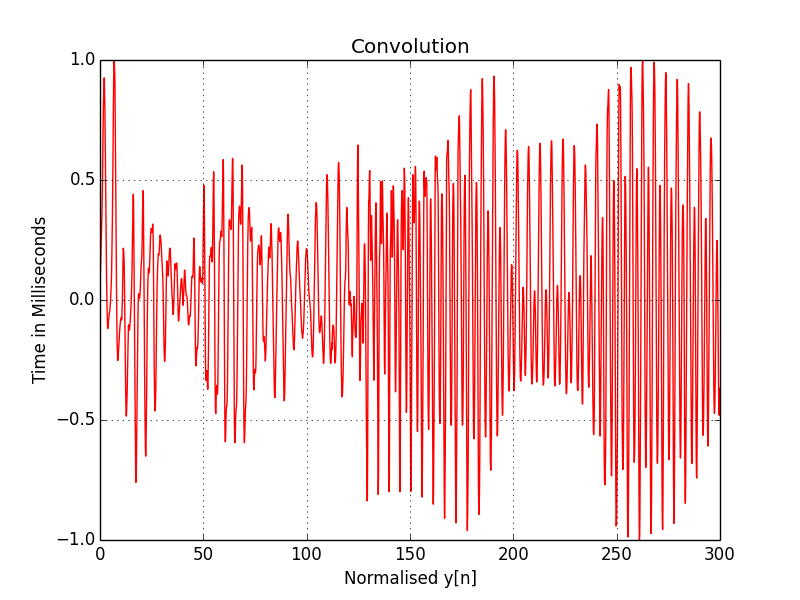
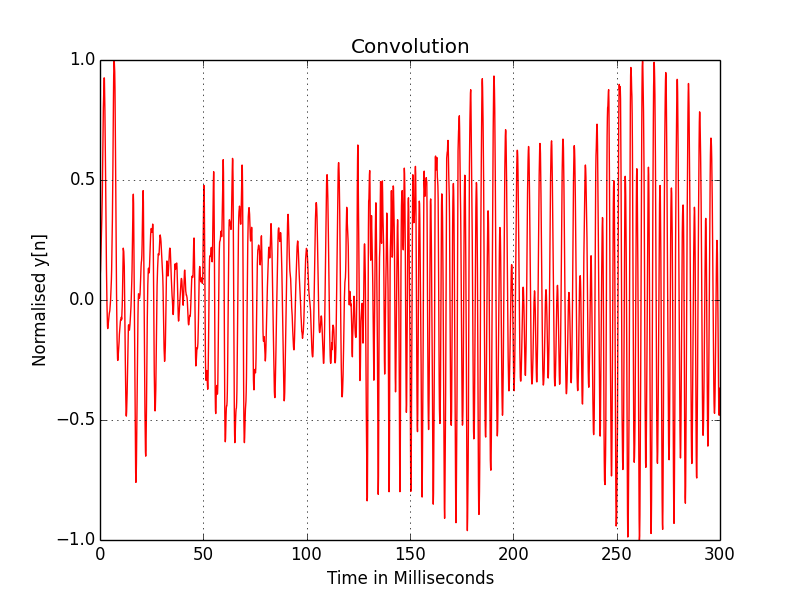
Fixed axis on convolution graph

Changed region(s): [[0.4062, 0.93, 0.625, 0.99], [0.0312, 0.36, 0.0625, 0.63]]

diff --git a/lab1/plotting.py b/lab1/plotting.py
@@ -105,8 +105,8 @@ def plotConvolutionData():
     plotGraphs([plotData])
 
     pl.title('Convolution')
-    pl.xlabel("Normalised y[n]")
-    pl.ylabel("Time in Milliseconds")
+    pl.ylabel("Normalised y[n]")
+    pl.xlabel("Time in Milliseconds")
 
     pl.grid(True)
 
